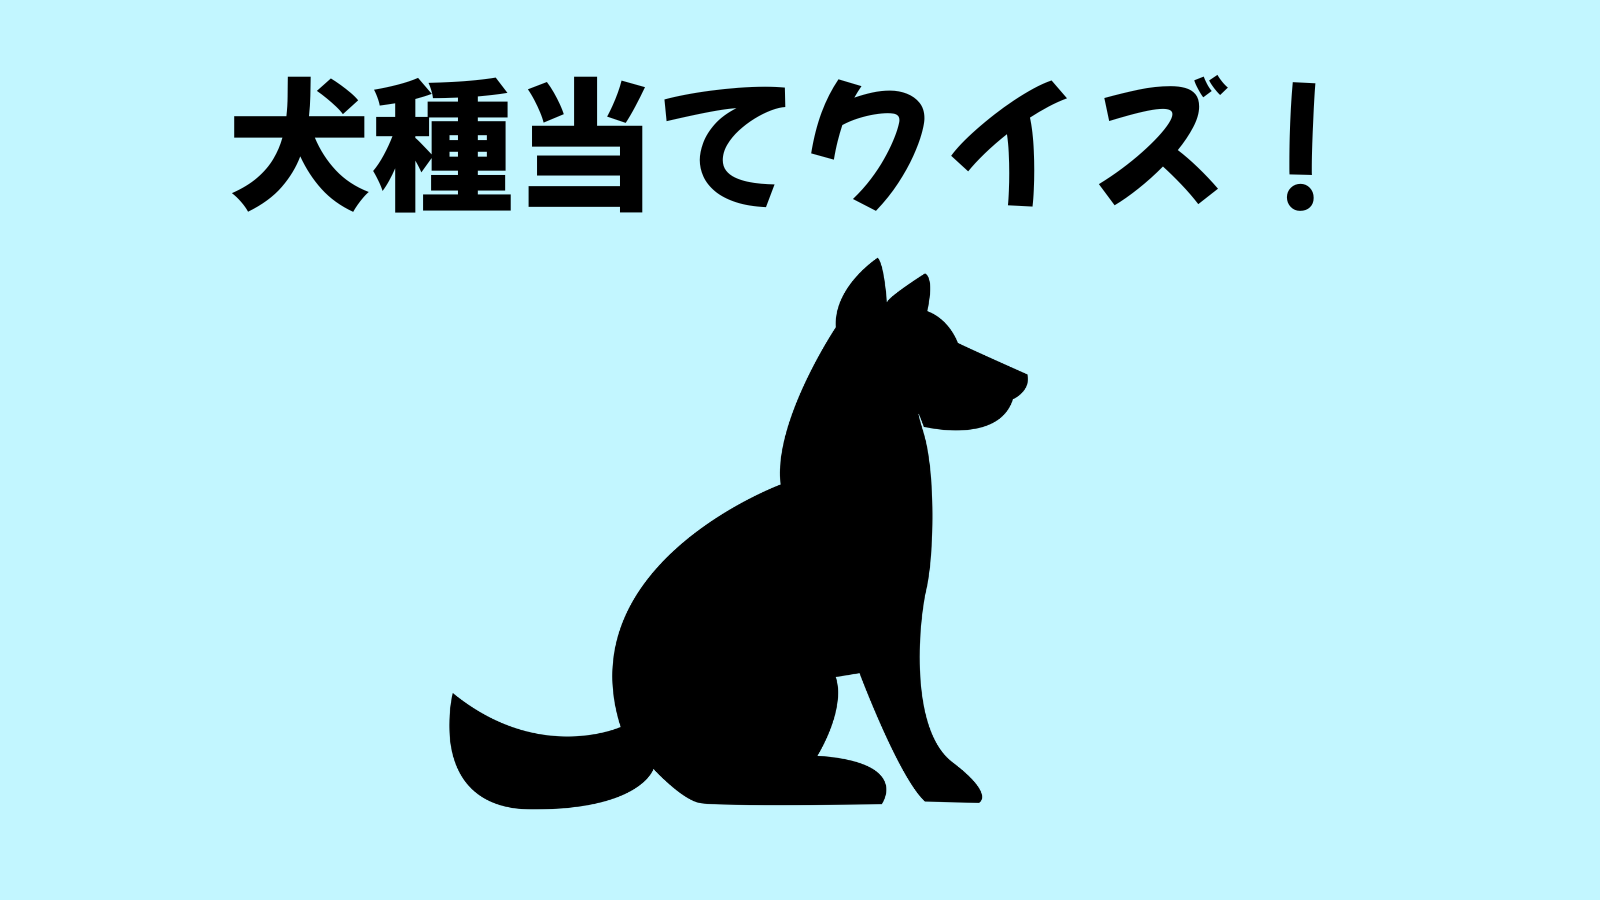
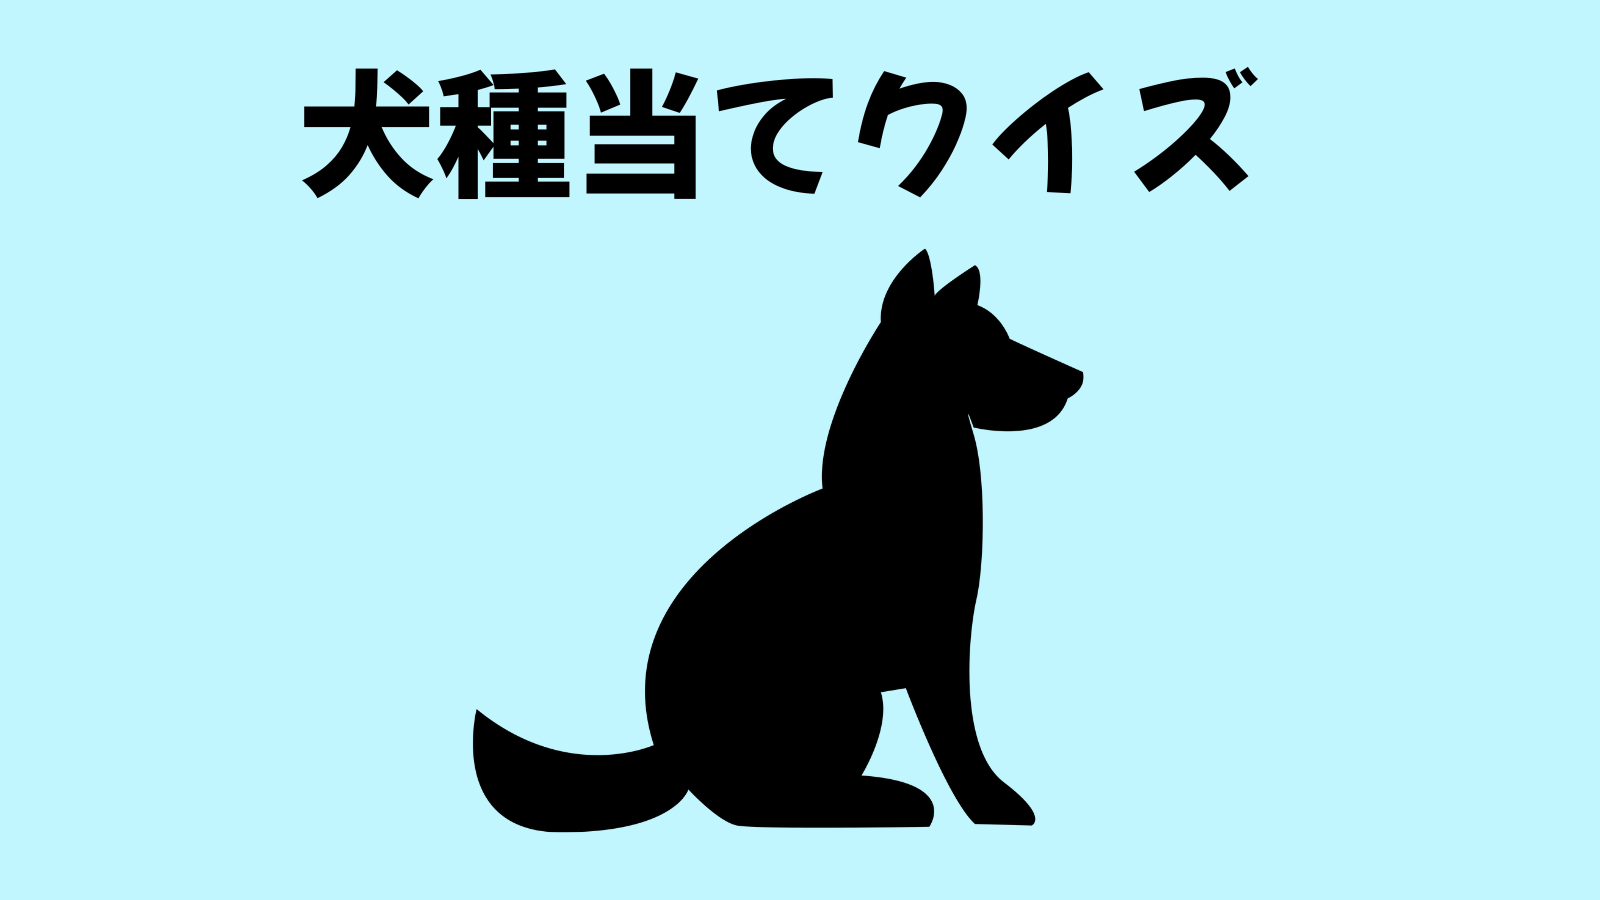
ハッシュタグ！未反映のため削除調整

Changed region(s): [[0.125, 0.0622, 0.8438, 0.2489], [0.2812, 0.28, 0.6875, 0.9333]]

diff --git a/index.html b/index.html
@@ -3,7 +3,7 @@
   <head>
     <meta charset="UTF-8">
     <meta name="viewport" content="width=device-width, initial-scale=1.0">
-    <title>犬種当てクイズ！</title>
+    <title>犬種当てクイズ</title>
     <script src="https://cdn.tailwindcss.com"></script>
   </head>
   <body class="bg-gray-100 flex flex-col items-center justify-center min-h-screen">
@@ -11,7 +11,7 @@
 
       <!-- スタート画面 -->
       <div id="start-screen" class="text-center">
-        <img src="images/top.png" alt="犬種当てクイズ！" class="mb-4 rounded">
+        <img src="images/top.png" alt="犬種当てクイズ" class="mb-4 rounded">
         <button id="start-btn" class="bg-green-500 text-white py-2 px-4 rounded">スタート</button>
       </div>
 
@@ -124,7 +124,7 @@
 
         const tweetText = encodeURIComponent(`犬種当てクイズに挑戦！${quizData.length}問中${score}問正解しました！`);
         const tweetUrl = encodeURIComponent('https://inuha62a.github.io/dog_breed_quiz/');
-        const tweetHashtags = encodeURIComponent('\n#犬種当てクイズ！');
+        const tweetHashtags = encodeURIComponent('\n#犬種当てクイズ');
 
         tweetBtn.href = `https://twitter.com/intent/tweet?text=${tweetText}%0A${tweetUrl}%0A${tweetHashtags}`;
         resultContainer.classList.remove('hidden');
